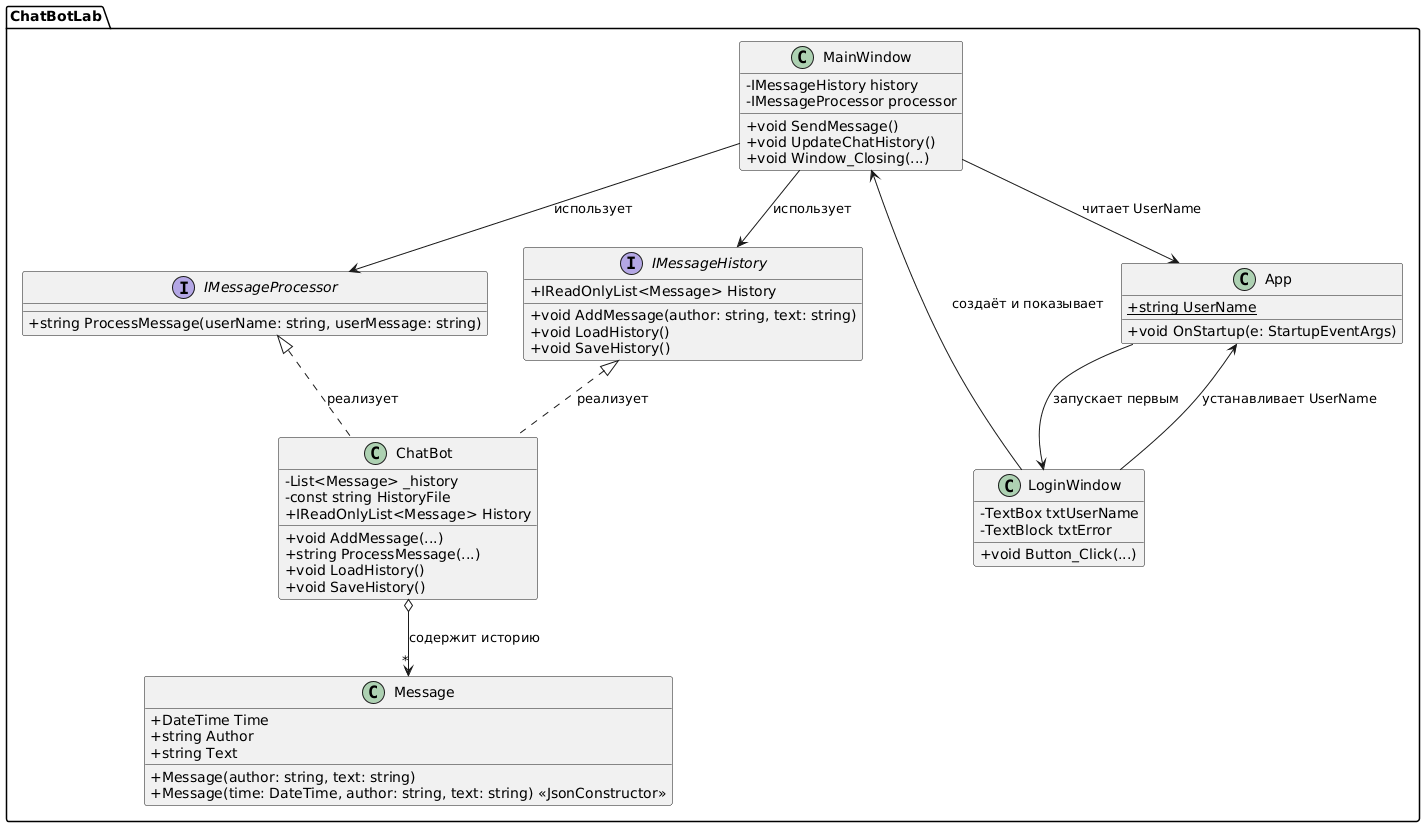
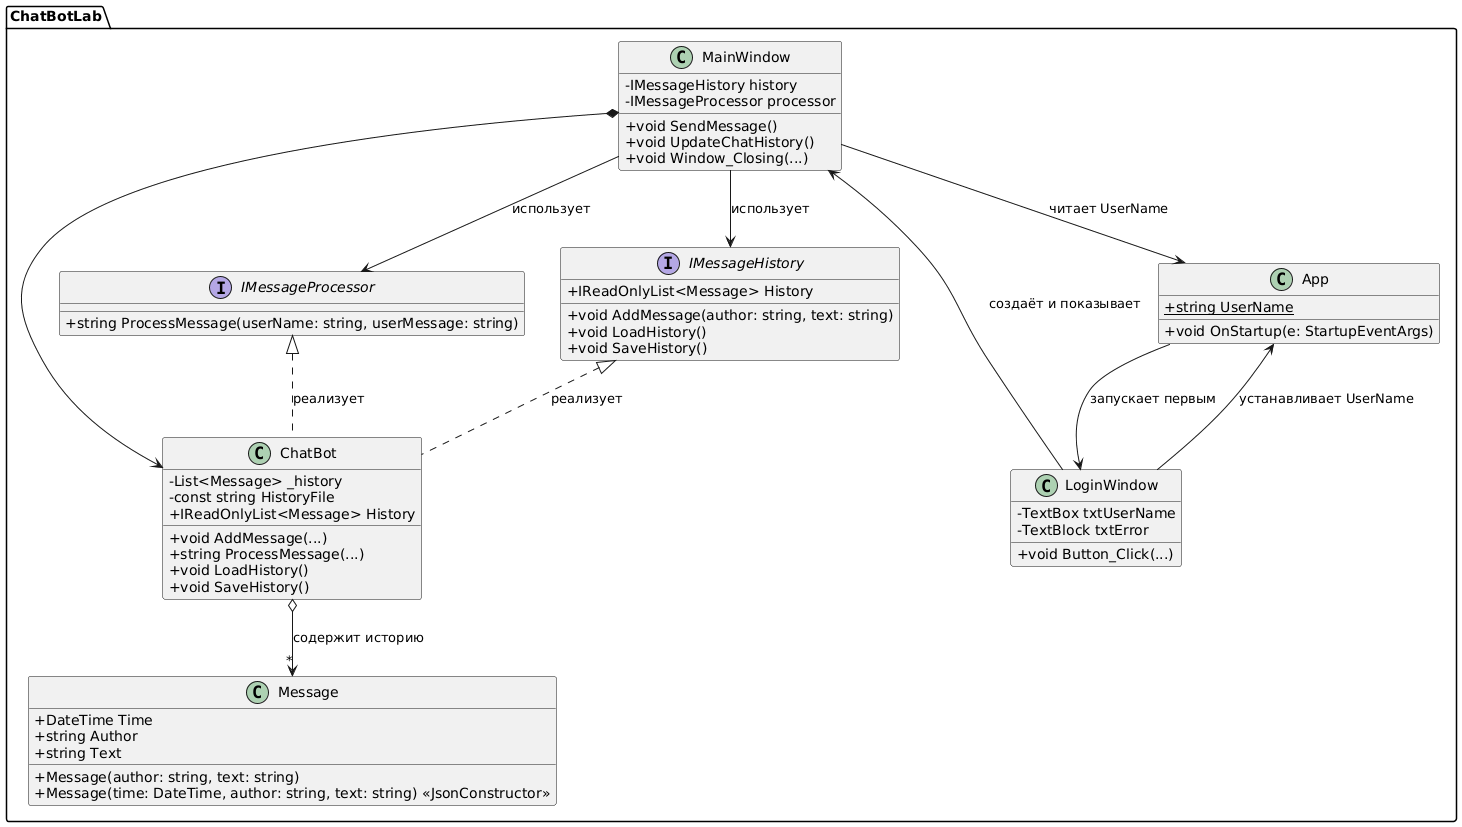
some fixes + completed work

diff --git a/MainWindow.xaml.cs b/MainWindow.xaml.cs
@@ -6,12 +6,17 @@ using System.Windows.Input;
 namespace ChatBotLab
 {
     /// <summary>
-    /// Класс главного окна приложения.
+    /// Класс главного окна приложения. В модели MVC это контроллер (Controler).
     /// </summary>
     public partial class MainWindow : Window
     {
 
         #region Поля класса MainWindow
+
+        /// <summary>
+        /// 
+        /// </summary>
+        private string Name;
 
         /// <summary>
         /// Интерфейс для работы с историей сообщений чата.
@@ -30,11 +35,13 @@ namespace ChatBotLab
         /// <summary>
         /// Конструктор главного окна приложения.
         /// </summary>
-        public MainWindow()
+        public MainWindow(string userName)
         {
             InitializeComponent(); // Инициализация компонентов окна
 
             var bot = new ChatBot(); // Создание экземпляра чат-бота
+
+            Name = userName; // ?
 
             // Присваиваем интерфейсы
             history = bot;
@@ -104,16 +111,16 @@ namespace ChatBotLab
         /// </summary>
         private void SendMessage()
         {
-            string userMessage = txtMessage.Text?.Trim(); // Получаем и обрезаем сообщение пользователя
+            string userMessage = txtMessage.Text?.Trim(); // Получаем и обрезаем сообщение пользователя(? это защита от null, то есть если поле UserMessage пустое, то оно будет null)
 
             if (string.IsNullOrWhiteSpace(userMessage)) 
                 return; // Выходим, если сообщение пустое
 
             txtMessage.Clear(); // Очищаем поле ввода
 
-            history.AddMessage(App.UserName, userMessage); // Добавляем сообщение пользователя в историю
+            history.AddMessage(Name, userMessage); // Добавляем сообщение пользователя в историю
 
-            string botResponse = processor.ProcessMessage(App.UserName, userMessage); // Получаем ответ бота
+            string botResponse = processor.ProcessMessage(Name, userMessage); // Получаем ответ бота
 
             if (!string.IsNullOrWhiteSpace(botResponse))
             {
@@ -128,25 +135,26 @@ namespace ChatBotLab
         /// </summary>
         private void UpdateChatHistory()
         {
-            lstChatHistory.Items.Clear(); // Очищаем текущее отображение истории
+            var currentHistory = history.History; 
 
-            // Если история пустая — показываем приветствие от бота
-            if (history.History.Count == 0)
+            // Добавляем только новые (начиная с того, сколько уже есть в ListBox)
+            for (int i = lstChatHistory.Items.Count; i < currentHistory.Count; i++)
             {
-                string welcome = $"Привет, {App.UserName}! Я твой чат-бот. Напиши что-нибудь, чтобы начать!";
+                var msg = currentHistory[i];
+                lstChatHistory.Items.Add($"{msg.Time:HH:mm:ss} [{msg.Author}]: {msg.Text}");
+            }
+
+            // Приветствие, если ничего ещё не было
+            if (lstChatHistory.Items.Count == 0 && currentHistory.Count == 0)
+            {
+                string welcome = $"Привет, {Name}! Я твой чат-бот. Напиши что-нибудь!";
                 lstChatHistory.Items.Add($"{DateTime.Now:HH:mm:ss} [Бот]: {welcome}");
             }
-            else
-            {
-                foreach (var msg in history.History) // Проходим по всем сообщениям в истории
-                {
-                    lstChatHistory.Items.Add($"{msg.Time:HH:mm:ss} [{msg.Author}]: {msg.Text}"); // Добавляем форматированное сообщение в список
-                }
-            }
 
-            if (lstChatHistory.Items.Count > 0) // Если есть хотябы одно сообщение в списке
+            // Прокрутка вниз
+            if (lstChatHistory.Items.Count > 0)
             {
-                lstChatHistory.ScrollIntoView(lstChatHistory.Items[lstChatHistory.Items.Count - 1]); // Проскролливаем к последнему сообщению
+                lstChatHistory.ScrollIntoView(lstChatHistory.Items[lstChatHistory.Items.Count - 1]);
             }
         }
 

diff --git a/LoginWindow.xaml.cs b/LoginWindow.xaml.cs
@@ -4,7 +4,7 @@ using System.Windows;
 namespace ChatBotLab
 {
     /// <summary>
-    /// Класс окна авторизации.
+    /// Класс окна авторизации. В модели MVC это контроллер (Controler).
     /// </summary>
     public partial class LoginWindow : Window
     {
@@ -20,6 +20,8 @@ namespace ChatBotLab
         }
 
         #endregion
+
+        //public string UserName; // ?
 
         #region Обработчики событий
 
@@ -46,8 +48,8 @@ namespace ChatBotLab
 
             try
             {
-                App.UserName = name; // Установка имени пользователя в глобальную переменную
-                new MainWindow().Show(); // Создание и отображение главного окна чата
+               // UserName = name; // Установка имени пользователя в глобальную переменную
+                new MainWindow(name).Show(); // Создание и отображение главного окна чата
                 Close();
             }
             catch (Exception ex)

diff --git a/ChatBot.cs b/ChatBot.cs
@@ -9,7 +9,7 @@ using System.Text.RegularExpressions;
 namespace ChatBotLab // Пространство имен для чат-бота
 {
     /// <summary>
-    /// Класс чат-бота, реализующий обработку сообщений и хранение истории.
+    /// Класс чат-бота, реализующий обработку сообщений и хранение истории. В модели MVC это модель (Model).
     /// </summary>
     public class ChatBot : IMessageHistory, IMessageProcessor 
     {

diff --git a/IMessageProcessor.cs b/IMessageProcessor.cs
@@ -1,7 +1,7 @@
 namespace ChatBotLab
 {
     /// <summary>
-    /// Интерфейс для обработки и генерации ответов чат-бота.
+    /// Интерфейс для обработки и генерации ответов чат-бота. В модели MVC это модель (Model).
     /// </summary>
     public interface IMessageProcessor
     {

diff --git a/IMessageHistory.cs b/IMessageHistory.cs
@@ -3,7 +3,7 @@
 namespace ChatBotLab
 {
     /// <summary>
-    /// Интерфейс для работы с историей сообщений чата.
+    /// Интерфейс для работы с историей сообщений чата. В модели MVC это модель (Model).
     /// </summary>
     public interface IMessageHistory
     {

diff --git a/App.xaml.cs b/App.xaml.cs
@@ -10,11 +10,6 @@ namespace ChatBotLab
 
         #region Свойства класса App
 
-        /// <summary>
-        /// Свойство для хранения имени пользователя.
-        /// </summary>
-        public static string UserName { get; set; } = string.Empty;
-
         #endregion
 
         #region Методы 

diff --git a/Message.cs b/Message.cs
@@ -4,7 +4,7 @@ using System.Text.Json.Serialization;
 namespace ChatBotLab
 {
     /// <summary>
-    /// Класс сообщения в чате.
+    /// Класс сообщения в чате. В модели MVC это модель (Model).
     /// </summary>
     public class Message
     {

diff --git a/README.md b/README.md
@@ -24,7 +24,10 @@
 | Время                | `который час?`            | `Сейчас 14:35:22`                     |
 | Дата                 | `какое сегодня число`     | `Сегодня 02 февраля 2026 года`        |
 | Статистика           | `статистика`              | `Всего сообщений: 15. От пользователя: 8. От бота: 7.` |
+| Сложение             | `сложи 3 и 4`             | `Результат: 7`                        |
+| Вычитание            | `вычти 12 из 16  `        | `Результат: 4`                        |
 | Умножение            | `умножь 12 на 157`        | `Результат: 1884`                     |
+| Деление              | `раздели 100 на 10`       | `Результат: 10`                     |
 | Прямое выражение     | `321 - 123`               | `Результат: 198`                      |
 | Деление на ноль      | `100 / 0`                 | `На ноль делить нельзя!`              |
 
@@ -43,30 +46,3 @@ ChatBotLab/
 ├── MainWindow.xaml             # Главное окно чата (UI)
 └── MainWindow.xaml.cs          # Логика чата (отправка, обновление, сохранение)
 ```
-
-## Отношения между классами (UML)
-
-- **ChatBot → IMessageHistory** = реализация  
-- **ChatBot → IMessageProcessor** = реализация  
-- **ChatBot → Message** = композиция (ChatBot содержит много Message)  
-- **MainWindow → IMessageHistory** = использование / зависимость  
-- **MainWindow → IMessageProcessor** = использование / зависимость  
-- **MainWindow → App** = использование / зависимость (читает UserName)  
-- **LoginWindow → App** = использование / зависимость (устанавливает UserName)  
-- **LoginWindow → MainWindow** = создание (создаёт и показывает)  
-- **App → LoginWindow** = создание (запускает первым)
-
-## Статус выполнения задач
-
-Все требования лабораторной выполнены и протестированы.
-
-| №  | Задача                                                                 | Статус    | 
-|----|------------------------------------------------------------------------|-----------|
-| 1  | Бот принимает строки вида "231 - 123" (прямые арифметические выражения) | ✅ READY  | 
-| 2  | Убрано диалоговое окно при ошибке ввода имени                          | ✅ READY  | 
-| 3  | Сделаны два интерфейса: для истории и для обработки сообщений          | ✅ READY  | 
-| 4  | Добавлена UML-диаграмма классов                                        | ✅ READY  | 
-| 5  | Исправлена статистика чата (бот корректно считает сообщения)          | ✅ READY  | 
-| 6  | MessageBox при ошибках чтения/записи в JSON-файл                      | ✅ READY  | 
-| 7  | Приветствие от бота при пустой истории чата                            | ✅ READY  | 
-

diff --git a/UML.md b/UML.md
@@ -63,6 +63,8 @@ package "ChatBotLab" {
     LoginWindow --> App : устанавливает UserName
     LoginWindow --> MainWindow : создаёт и показывает
 
+    MainWindow O--> СhatBot 
+
     App --> LoginWindow : запускает первым
 }
 
